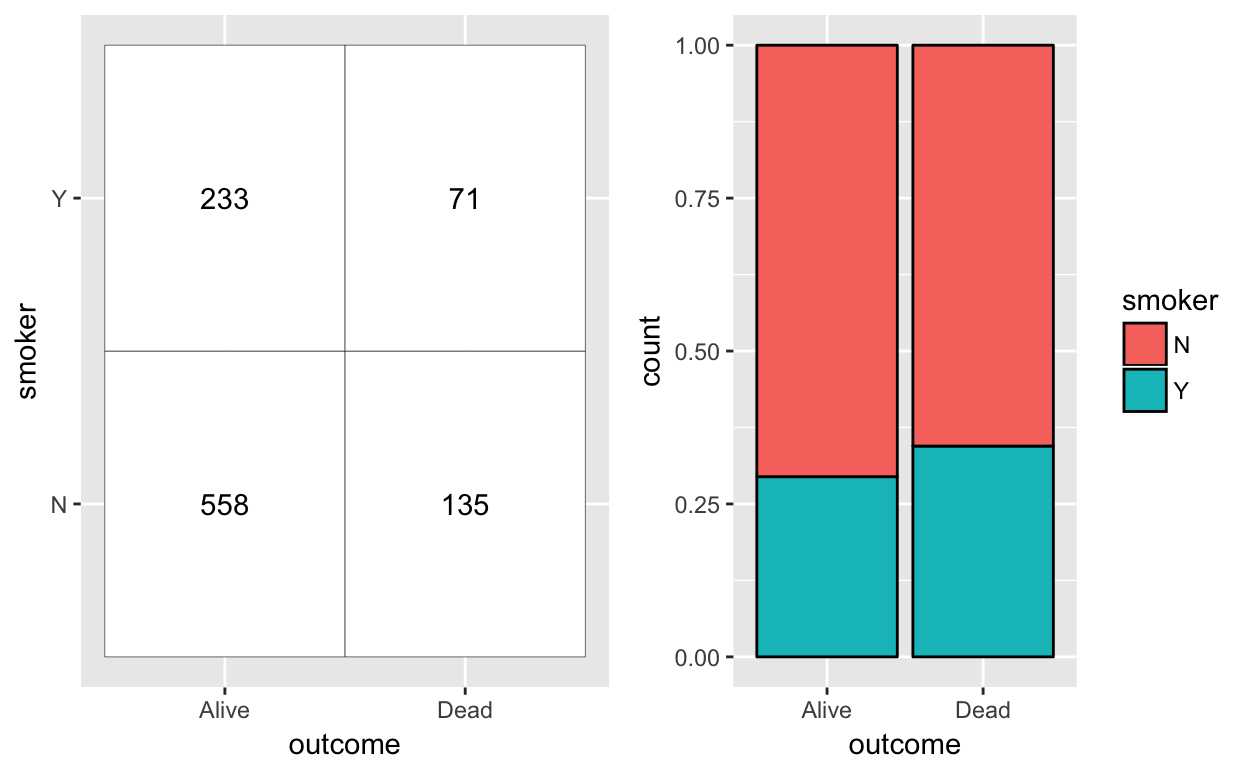
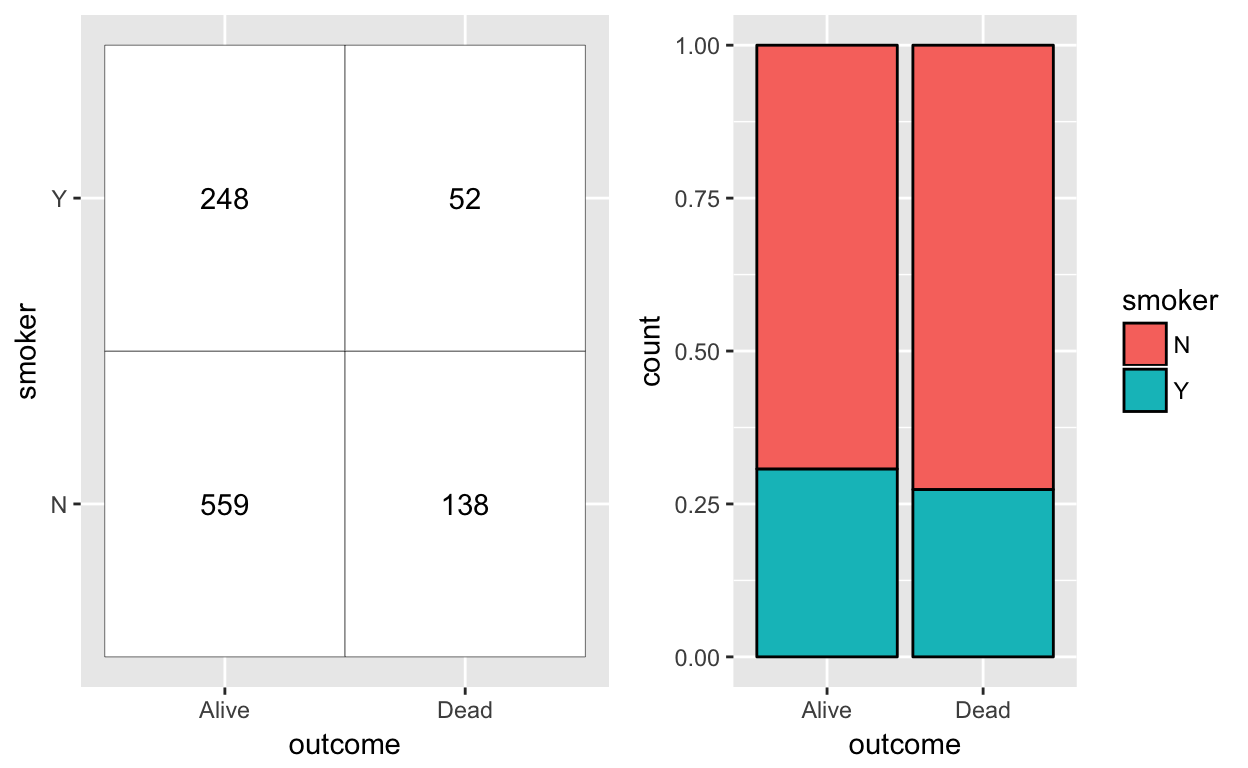
update

Changed region(s): [[0.5938, 0.5625, 0.8438, 0.6562], [0.3438, 0.25, 0.4062, 0.2812], [0.1562, 0.25, 0.1875, 0.2812]]

diff --git a/inst/tutorials/categoricalData/categoricalData.html b/inst/tutorials/categoricalData/categoricalData.html
@@ -107,14 +107,14 @@ if (window.hljs && document.readyState && document.readyState === "complete") {
 <p>If we know about whether someone smokes, do we know whether they are more likely to die?</p>
 <p>Compare it to whether someone wears green.</p>
 
-<div id="htmlwidget-add42c6ec792dd2dded8" style="width:100%;height:auto;", class = "quiz html-widget">
+<div id="htmlwidget-0748de10e5ade3e432a2" style="width:100%;height:auto;", class = "quiz html-widget">
 <div class="panel panel-default">
 <div class="panel-body quizArea">
 </div>
 </div>
 </div>
 
-<script type="application/json" data-for="htmlwidget-add42c6ec792dd2dded8">{"x":{"question":"If someone wears green are they more likely to die?","answers":[{"option":"Yes. Because Lucky the Leprechaun will be angry.","correct":false,"message":"Not correct."},{"option":"No. The two variables are not associated","correct":true,"message":"Yes, that&#39;s correct!"}],"label":"letter-a","skipStartButton":true,"perQuestionResponseAnswers":true,"perQuestionResponseMessaging":true,"preventUnanswered":true,"displayQuestionCount":false,"displayQuestionNumber":false,"disableRanking":true,"nextQuestionText":"","checkAnswerText":"Submit Answer","allowRetry":true,"randomSortAnswers":false,"json":{"info":{"name":"","main":""},"questions":[{"q":"If someone wears green are they more likely to die?","a":[{"option":"Yes. Because Lucky the Leprechaun will be angry.","correct":false,"message":"Not correct."},{"option":"No. The two variables are not associated","correct":true,"message":"Yes, that&#39;s correct!"}],"correct":"Correct!","incorrect":"Incorrect."}]}},"evals":[],"jsHooks":[]}</script>
+<script type="application/json" data-for="htmlwidget-0748de10e5ade3e432a2">{"x":{"question":"If someone wears green are they more likely to die?","answers":[{"option":"Yes. Because Lucky the Leprechaun will be angry.","correct":false,"message":"Not correct."},{"option":"No. The two variables are not associated","correct":true,"message":"Yes, that&#39;s correct!"}],"label":"letter-a","skipStartButton":true,"perQuestionResponseAnswers":true,"perQuestionResponseMessaging":true,"preventUnanswered":true,"displayQuestionCount":false,"displayQuestionNumber":false,"disableRanking":true,"nextQuestionText":"","checkAnswerText":"Submit Answer","allowRetry":true,"randomSortAnswers":false,"json":{"info":{"name":"","main":""},"questions":[{"q":"If someone wears green are they more likely to die?","a":[{"option":"Yes. Because Lucky the Leprechaun will be angry.","correct":false,"message":"Not correct."},{"option":"No. The two variables are not associated","correct":true,"message":"Yes, that&#39;s correct!"}],"correct":"Correct!","incorrect":"Incorrect."}]}},"evals":[],"jsHooks":[]}</script>
 </div>
 <div id="section-the-data-whickham" class="section level2">
 <h2>The Data (Whickham)</h2>
@@ -131,14 +131,14 @@ summary(Whickham)</code></pre>
 ##                        3rd Qu.:61.00  
 ##                        Max.   :84.00</code></pre>
 
-<div id="htmlwidget-a14ce394c0ea810d1dfd" style="width:100%;height:auto;", class = "quiz html-widget">
+<div id="htmlwidget-62d0f9262f0f01a10dd2" style="width:100%;height:auto;", class = "quiz html-widget">
 <div class="panel panel-default">
 <div class="panel-body quizArea">
 </div>
 </div>
 </div>
 
-<script type="application/json" data-for="htmlwidget-a14ce394c0ea810d1dfd">{"x":{"question":"What can we learn from this summary table?","answers":[{"option":"There are more alive people than dead people in the data.","correct":true,"message":"Correct. There are more alive people (945) than dead people (369) in this dataset."},{"option":"There are two variables","correct":false,"message":"Not quite. There&#39;s <code>outcome<\/code>, <code>smoker<\/code>, and <code>age<\/code>."},{"option":"You are either considered either a smoker or a non-smoker","correct":true,"message":"Yes, that&#39;s correct! This dataset doesn&#39;t account for how long you smoked."},{"option":"The age range of the patients includes minors.","correct":false,"message":"Incorrect. Look at the min value for age."},{"option":"The average age of the participant was around 47 years of age","correct":"Yes, the mean age was 46.92 years of age. Yes, you can see it as the mean value for the age","message":null}],"label":"summary","skipStartButton":true,"perQuestionResponseAnswers":true,"perQuestionResponseMessaging":true,"preventUnanswered":true,"displayQuestionCount":false,"displayQuestionNumber":false,"disableRanking":true,"nextQuestionText":"","checkAnswerText":"Submit Answer","allowRetry":true,"randomSortAnswers":false,"json":{"info":{"name":"","main":""},"questions":[{"q":"What can we learn from this summary table?","a":[{"option":"There are more alive people than dead people in the data.","correct":true,"message":"Correct. There are more alive people (945) than dead people (369) in this dataset."},{"option":"There are two variables","correct":false,"message":"Not quite. There&#39;s <code>outcome<\/code>, <code>smoker<\/code>, and <code>age<\/code>."},{"option":"You are either considered either a smoker or a non-smoker","correct":true,"message":"Yes, that&#39;s correct! This dataset doesn&#39;t account for how long you smoked."},{"option":"The age range of the patients includes minors.","correct":false,"message":"Incorrect. Look at the min value for age."},{"option":"The average age of the participant was around 47 years of age","correct":"Yes, the mean age was 46.92 years of age. Yes, you can see it as the mean value for the age","message":null}],"correct":"Correct!","incorrect":"Incorrect."}]}},"evals":[],"jsHooks":[]}</script>
+<script type="application/json" data-for="htmlwidget-62d0f9262f0f01a10dd2">{"x":{"question":"What can we learn from this summary table?","answers":[{"option":"There are more alive people than dead people in the data.","correct":true,"message":"Correct. There are more alive people (945) than dead people (369) in this dataset."},{"option":"There are two variables","correct":false,"message":"Not quite. There&#39;s <code>outcome<\/code>, <code>smoker<\/code>, and <code>age<\/code>."},{"option":"You are either considered either a smoker or a non-smoker","correct":true,"message":"Yes, that&#39;s correct! This dataset doesn&#39;t account for how long you smoked."},{"option":"The age range of the patients includes minors.","correct":false,"message":"Incorrect. Look at the min value for age."},{"option":"The average age of the participant was around 47 years of age","correct":"Yes, the mean age was 46.92 years of age. Yes, you can see it as the mean value for the age","message":null}],"label":"summary","skipStartButton":true,"perQuestionResponseAnswers":true,"perQuestionResponseMessaging":true,"preventUnanswered":true,"displayQuestionCount":false,"displayQuestionNumber":false,"disableRanking":true,"nextQuestionText":"","checkAnswerText":"Submit Answer","allowRetry":true,"randomSortAnswers":false,"json":{"info":{"name":"","main":""},"questions":[{"q":"What can we learn from this summary table?","a":[{"option":"There are more alive people than dead people in the data.","correct":true,"message":"Correct. There are more alive people (945) than dead people (369) in this dataset."},{"option":"There are two variables","correct":false,"message":"Not quite. There&#39;s <code>outcome<\/code>, <code>smoker<\/code>, and <code>age<\/code>."},{"option":"You are either considered either a smoker or a non-smoker","correct":true,"message":"Yes, that&#39;s correct! This dataset doesn&#39;t account for how long you smoked."},{"option":"The age range of the patients includes minors.","correct":false,"message":"Incorrect. Look at the min value for age."},{"option":"The average age of the participant was around 47 years of age","correct":"Yes, the mean age was 46.92 years of age. Yes, you can see it as the mean value for the age","message":null}],"correct":"Correct!","incorrect":"Incorrect."}]}},"evals":[],"jsHooks":[]}</script>
 <div id="section-what-does-the-data-actually-look-like" class="section level3">
 <h3>What does the data actually look like?</h3>
 <p>Here are the first 10 rows of the data table. Each row of the data corresponds to a patient.</p>
@@ -149,14 +149,14 @@ summary(Whickham)</code></pre>
   </script>
 </div>
 
-<div id="htmlwidget-d8c6dd5936d33be88841" style="width:100%;height:auto;", class = "quiz html-widget">
+<div id="htmlwidget-7773831603c9dd483bf9" style="width:100%;height:auto;", class = "quiz html-widget">
 <div class="panel panel-default">
 <div class="panel-body quizArea">
 </div>
 </div>
 </div>
 
-<script type="application/json" data-for="htmlwidget-d8c6dd5936d33be88841">{"x":{"question":"How many patients are Alive (outcome = &#39;Alive&#39;) and didn&#39;t smoke (smoker = &#39;No&#39;) from these first 10 rows?","answers":[{"option":"There are 4 patients.","correct":true,"message":"Correct. There are 4 patients who are alive and not smokers."},{"option":"There are 5 patients.","correct":false,"message":"Not quite. Go back and count."},{"option":"There are 6 patients.","correct":false,"message":"Not quite. Go back and count.."}],"label":"datatable","skipStartButton":true,"perQuestionResponseAnswers":true,"perQuestionResponseMessaging":true,"preventUnanswered":true,"displayQuestionCount":false,"displayQuestionNumber":false,"disableRanking":true,"nextQuestionText":"","checkAnswerText":"Submit Answer","allowRetry":true,"randomSortAnswers":false,"json":{"info":{"name":"","main":""},"questions":[{"q":"How many patients are Alive (outcome = &#39;Alive&#39;) and didn&#39;t smoke (smoker = &#39;No&#39;) from these first 10 rows?","a":[{"option":"There are 4 patients.","correct":true,"message":"Correct. There are 4 patients who are alive and not smokers."},{"option":"There are 5 patients.","correct":false,"message":"Not quite. Go back and count."},{"option":"There are 6 patients.","correct":false,"message":"Not quite. Go back and count.."}],"correct":"Correct!","incorrect":"Incorrect."}]}},"evals":[],"jsHooks":[]}</script>
+<script type="application/json" data-for="htmlwidget-7773831603c9dd483bf9">{"x":{"question":"How many patients are Alive (outcome = &#39;Alive&#39;) and didn&#39;t smoke (smoker = &#39;No&#39;) from these first 10 rows?","answers":[{"option":"There are 4 patients.","correct":true,"message":"Correct. There are 4 patients who are alive and not smokers."},{"option":"There are 5 patients.","correct":false,"message":"Not quite. Go back and count."},{"option":"There are 6 patients.","correct":false,"message":"Not quite. Go back and count.."}],"label":"datatable","skipStartButton":true,"perQuestionResponseAnswers":true,"perQuestionResponseMessaging":true,"preventUnanswered":true,"displayQuestionCount":false,"displayQuestionNumber":false,"disableRanking":true,"nextQuestionText":"","checkAnswerText":"Submit Answer","allowRetry":true,"randomSortAnswers":false,"json":{"info":{"name":"","main":""},"questions":[{"q":"How many patients are Alive (outcome = &#39;Alive&#39;) and didn&#39;t smoke (smoker = &#39;No&#39;) from these first 10 rows?","a":[{"option":"There are 4 patients.","correct":true,"message":"Correct. There are 4 patients who are alive and not smokers."},{"option":"There are 5 patients.","correct":false,"message":"Not quite. Go back and count."},{"option":"There are 6 patients.","correct":false,"message":"Not quite. Go back and count.."}],"correct":"Correct!","incorrect":"Incorrect."}]}},"evals":[],"jsHooks":[]}</script>
 </div>
 </div>
 <div id="section-lets-look-at-our-outcome" class="section level2">
@@ -197,14 +197,14 @@ summary(Whickham)</code></pre>
 <p>One case is that <code>smoking</code> would perfectly predict <code>outcome</code>. That is, if you smoke, you would die. Here we simulate fake data that shows this. The association would look like this:</p>
 <p><img src="categoricalData_files/figure-html/unnamed-chunk-8-1.png" width="624" /></p>
 
-<div id="htmlwidget-374f0482fc85beff47b7" style="width:100%;height:auto;", class = "quiz html-widget">
+<div id="htmlwidget-7628168099b11a79a64c" style="width:100%;height:auto;", class = "quiz html-widget">
 <div class="panel panel-default">
 <div class="panel-body quizArea">
 </div>
 </div>
 </div>
 
-<script type="application/json" data-for="htmlwidget-374f0482fc85beff47b7">{"x":{"question":"Which part of the stacked bar plot corresponds to the top left cell in the table?","answers":[{"option":"Right side, red part","correct":false,"message":"Not quite, look at what two conditions the top left cell belongs to."},{"option":"Left side, blue portion","correct":true,"message":"Yes, correct. This cell corresponds to people who are alive and who didn&#39;t smoke."},{"option":"Left side, red part","correct":false,"message":"Not quite, look at what two conditions the top left cell belongs to."},{"option":"Right side, blue part.","correct":false,"message":"Not quite, look at what two conditions the top left cell belongs to."}],"label":"datatable2","skipStartButton":true,"perQuestionResponseAnswers":true,"perQuestionResponseMessaging":true,"preventUnanswered":true,"displayQuestionCount":false,"displayQuestionNumber":false,"disableRanking":true,"nextQuestionText":"","checkAnswerText":"Submit Answer","allowRetry":true,"randomSortAnswers":false,"json":{"info":{"name":"","main":""},"questions":[{"q":"Which part of the stacked bar plot corresponds to the top left cell in the table?","a":[{"option":"Right side, red part","correct":false,"message":"Not quite, look at what two conditions the top left cell belongs to."},{"option":"Left side, blue portion","correct":true,"message":"Yes, correct. This cell corresponds to people who are alive and who didn&#39;t smoke."},{"option":"Left side, red part","correct":false,"message":"Not quite, look at what two conditions the top left cell belongs to."},{"option":"Right side, blue part.","correct":false,"message":"Not quite, look at what two conditions the top left cell belongs to."}],"correct":"Correct!","incorrect":"Incorrect."}]}},"evals":[],"jsHooks":[]}</script>
+<script type="application/json" data-for="htmlwidget-7628168099b11a79a64c">{"x":{"question":"Which part of the stacked bar plot corresponds to the top left cell in the table?","answers":[{"option":"Right side, red part","correct":false,"message":"Not quite, look at what two conditions the top left cell belongs to."},{"option":"Left side, blue portion","correct":true,"message":"Yes, correct. This cell corresponds to people who are alive and who didn&#39;t smoke."},{"option":"Left side, red part","correct":false,"message":"Not quite, look at what two conditions the top left cell belongs to."},{"option":"Right side, blue part.","correct":false,"message":"Not quite, look at what two conditions the top left cell belongs to."}],"label":"datatable2","skipStartButton":true,"perQuestionResponseAnswers":true,"perQuestionResponseMessaging":true,"preventUnanswered":true,"displayQuestionCount":false,"displayQuestionNumber":false,"disableRanking":true,"nextQuestionText":"","checkAnswerText":"Submit Answer","allowRetry":true,"randomSortAnswers":false,"json":{"info":{"name":"","main":""},"questions":[{"q":"Which part of the stacked bar plot corresponds to the top left cell in the table?","a":[{"option":"Right side, red part","correct":false,"message":"Not quite, look at what two conditions the top left cell belongs to."},{"option":"Left side, blue portion","correct":true,"message":"Yes, correct. This cell corresponds to people who are alive and who didn&#39;t smoke."},{"option":"Left side, red part","correct":false,"message":"Not quite, look at what two conditions the top left cell belongs to."},{"option":"Right side, blue part.","correct":false,"message":"Not quite, look at what two conditions the top left cell belongs to."}],"correct":"Correct!","incorrect":"Incorrect."}]}},"evals":[],"jsHooks":[]}</script>
 </div>
 <div id="section-what-if-there-is-no-association-between-smoking-and-death" class="section level3">
 <h3>What if there is no association between smoking and death?</h3>
@@ -220,14 +220,14 @@ summary(Whickham)</code></pre>
 <p><img src="categoricalData_files/figure-html/unnamed-chunk-11-1.png" width="624" /></p>
 <p><img src="categoricalData_files/figure-html/unnamed-chunk-12-1.png" width="624" /></p>
 
-<div id="htmlwidget-4b22847e5990052d20ca" style="width:100%;height:auto;", class = "quiz html-widget">
+<div id="htmlwidget-6962a996fd8e83f19793" style="width:100%;height:auto;", class = "quiz html-widget">
 <div class="panel panel-default">
 <div class="panel-body quizArea">
 </div>
 </div>
 </div>
 
-<script type="application/json" data-for="htmlwidget-4b22847e5990052d20ca">{"x":{"question":"Based on this plot, if you smoke will you be more likely to be alive or dead?","answers":[{"option":"Dead, because that&#39;s what makes common sense.","correct":false,"message":"Not correct."},{"option":"Alive, because that&#39;s what the data tells us","correct":true,"message":"Yes, that&#39;s correct!"}],"label":"letter-c","skipStartButton":true,"perQuestionResponseAnswers":true,"perQuestionResponseMessaging":true,"preventUnanswered":true,"displayQuestionCount":false,"displayQuestionNumber":false,"disableRanking":true,"nextQuestionText":"","checkAnswerText":"Submit Answer","allowRetry":false,"randomSortAnswers":false,"json":{"info":{"name":"","main":""},"questions":[{"q":"Based on this plot, if you smoke will you be more likely to be alive or dead?","a":[{"option":"Dead, because that&#39;s what makes common sense.","correct":false,"message":"Not correct."},{"option":"Alive, because that&#39;s what the data tells us","correct":true,"message":"Yes, that&#39;s correct!"}],"correct":"Correct!","incorrect":"Incorrect."}]}},"evals":[],"jsHooks":[]}</script>
+<script type="application/json" data-for="htmlwidget-6962a996fd8e83f19793">{"x":{"question":"Based on this plot, if you smoke will you be more likely to be alive or dead?","answers":[{"option":"Dead, because that&#39;s what makes common sense.","correct":false,"message":"Not correct."},{"option":"Alive, because that&#39;s what the data tells us","correct":true,"message":"Yes, that&#39;s correct!"}],"label":"letter-c","skipStartButton":true,"perQuestionResponseAnswers":true,"perQuestionResponseMessaging":true,"preventUnanswered":true,"displayQuestionCount":false,"displayQuestionNumber":false,"disableRanking":true,"nextQuestionText":"","checkAnswerText":"Submit Answer","allowRetry":false,"randomSortAnswers":false,"json":{"info":{"name":"","main":""},"questions":[{"q":"Based on this plot, if you smoke will you be more likely to be alive or dead?","a":[{"option":"Dead, because that&#39;s what makes common sense.","correct":false,"message":"Not correct."},{"option":"Alive, because that&#39;s what the data tells us","correct":true,"message":"Yes, that&#39;s correct!"}],"correct":"Correct!","incorrect":"Incorrect."}]}},"evals":[],"jsHooks":[]}</script>
 </div>
 <div id="section-the-effect-of-age-on-the-data" class="section level2">
 <h2>The effect of Age on the Data</h2>
@@ -238,14 +238,14 @@ summary(Whickham)</code></pre>
 <input class="js-range-slider" id="slidy" data-type="double" data-min="19" data-max="83" data-from="23" data-to="83" data-step="5" data-grid="true" data-grid-num="6.4" data-grid-snap="false" data-prettify-separator="," data-prettify-enabled="true" data-keyboard="true" data-keyboard-step="7.8125" data-drag-interval="true" data-data-type="number"/>
 </div><div id="distPlot" class="shiny-plot-output" style="width: 100% ; height: 400px"></div></p>
 
-<div id="htmlwidget-fef35afd74beb64debf8" style="width:100%;height:auto;", class = "quiz html-widget">
+<div id="htmlwidget-3225d8988554251894e8" style="width:100%;height:auto;", class = "quiz html-widget">
 <div class="panel panel-default">
 <div class="panel-body quizArea">
 </div>
 </div>
 </div>
 
-<script type="application/json" data-for="htmlwidget-fef35afd74beb64debf8">{"x":{"question":"What do you notice about the number of deaths as you increase the age of the subgroup?","answers":[{"option":"The number of deaths decreases, which means that as you get older, you are less likely to die.","correct":false,"message":"Not correct."},{"option":"The number of deaths increases, which means that as you get older, you are more likely to die.","correct":true,"message":"Yes, that&#39;s correct!"}],"label":"letter-d","skipStartButton":true,"perQuestionResponseAnswers":true,"perQuestionResponseMessaging":true,"preventUnanswered":true,"displayQuestionCount":false,"displayQuestionNumber":false,"disableRanking":true,"nextQuestionText":"","checkAnswerText":"Submit Answer","allowRetry":false,"randomSortAnswers":false,"json":{"info":{"name":"","main":""},"questions":[{"q":"What do you notice about the number of deaths as you increase the age of the subgroup?","a":[{"option":"The number of deaths decreases, which means that as you get older, you are less likely to die.","correct":false,"message":"Not correct."},{"option":"The number of deaths increases, which means that as you get older, you are more likely to die.","correct":true,"message":"Yes, that&#39;s correct!"}],"correct":"Correct!","incorrect":"Incorrect."}]}},"evals":[],"jsHooks":[]}</script>
+<script type="application/json" data-for="htmlwidget-3225d8988554251894e8">{"x":{"question":"What do you notice about the number of deaths as you increase the age of the subgroup?","answers":[{"option":"The number of deaths decreases, which means that as you get older, you are less likely to die.","correct":false,"message":"Not correct."},{"option":"The number of deaths increases, which means that as you get older, you are more likely to die.","correct":true,"message":"Yes, that&#39;s correct!"}],"label":"letter-d","skipStartButton":true,"perQuestionResponseAnswers":true,"perQuestionResponseMessaging":true,"preventUnanswered":true,"displayQuestionCount":false,"displayQuestionNumber":false,"disableRanking":true,"nextQuestionText":"","checkAnswerText":"Submit Answer","allowRetry":false,"randomSortAnswers":false,"json":{"info":{"name":"","main":""},"questions":[{"q":"What do you notice about the number of deaths as you increase the age of the subgroup?","a":[{"option":"The number of deaths decreases, which means that as you get older, you are less likely to die.","correct":false,"message":"Not correct."},{"option":"The number of deaths increases, which means that as you get older, you are more likely to die.","correct":true,"message":"Yes, that&#39;s correct!"}],"correct":"Correct!","incorrect":"Incorrect."}]}},"evals":[],"jsHooks":[]}</script>
 </div>
 <div id="section-not-as-easy-as-we-thought" class="section level2">
 <h2>Not as easy as we thought!</h2>
@@ -256,14 +256,14 @@ summary(Whickham)</code></pre>
 <input class="js-range-slider" id="slidy2" data-type="double" data-min="19" data-max="83" data-from="18" data-to="83" data-step="2" data-grid="true" data-grid-num="8" data-grid-snap="false" data-prettify-separator="," data-prettify-enabled="true" data-keyboard="true" data-keyboard-step="3.125" data-drag-interval="true" data-data-type="number"/>
 </div><div id="distPlot2" class="shiny-plot-output" style="width: 100% ; height: 400px"></div></p>
 
-<div id="htmlwidget-3d3b0dcafae7103b5f19" style="width:100%;height:auto;", class = "quiz html-widget">
+<div id="htmlwidget-f03e6b1038ce4ea73b88" style="width:100%;height:auto;", class = "quiz html-widget">
 <div class="panel panel-default">
 <div class="panel-body quizArea">
 </div>
 </div>
 </div>
 
-<script type="application/json" data-for="htmlwidget-3d3b0dcafae7103b5f19">{"x":{"question":"For patients who are under 60, is smoking associated with death?","answers":[{"option":"Yes, the proportion of smokers who die is greater than the proportion of non-smokers who die for those patients younger than 60 years.","correct":true,"message":"Yes, correct."},{"option":"No, the proportion of smokers who die is smaller than the proportion of non-smokers who die for those patients younger than 60 years.","correct":false,"message":"Go back and look at the proportions."}],"label":"letter-e","skipStartButton":true,"perQuestionResponseAnswers":true,"perQuestionResponseMessaging":true,"preventUnanswered":true,"displayQuestionCount":false,"displayQuestionNumber":false,"disableRanking":true,"nextQuestionText":"","checkAnswerText":"Submit Answer","allowRetry":false,"randomSortAnswers":false,"json":{"info":{"name":"","main":""},"questions":[{"q":"For patients who are under 60, is smoking associated with death?","a":[{"option":"Yes, the proportion of smokers who die is greater than the proportion of non-smokers who die for those patients younger than 60 years.","correct":true,"message":"Yes, correct."},{"option":"No, the proportion of smokers who die is smaller than the proportion of non-smokers who die for those patients younger than 60 years.","correct":false,"message":"Go back and look at the proportions."}],"correct":"Correct!","incorrect":"Incorrect."}]}},"evals":[],"jsHooks":[]}</script>
+<script type="application/json" data-for="htmlwidget-f03e6b1038ce4ea73b88">{"x":{"question":"For patients who are under 60, is smoking associated with death?","answers":[{"option":"Yes, the proportion of smokers who die is greater than the proportion of non-smokers who die for those patients younger than 60 years.","correct":true,"message":"Yes, correct."},{"option":"No, the proportion of smokers who die is smaller than the proportion of non-smokers who die for those patients younger than 60 years.","correct":false,"message":"Go back and look at the proportions."}],"label":"letter-e","skipStartButton":true,"perQuestionResponseAnswers":true,"perQuestionResponseMessaging":true,"preventUnanswered":true,"displayQuestionCount":false,"displayQuestionNumber":false,"disableRanking":true,"nextQuestionText":"","checkAnswerText":"Submit Answer","allowRetry":false,"randomSortAnswers":false,"json":{"info":{"name":"","main":""},"questions":[{"q":"For patients who are under 60, is smoking associated with death?","a":[{"option":"Yes, the proportion of smokers who die is greater than the proportion of non-smokers who die for those patients younger than 60 years.","correct":true,"message":"Yes, correct."},{"option":"No, the proportion of smokers who die is smaller than the proportion of non-smokers who die for those patients younger than 60 years.","correct":false,"message":"Go back and look at the proportions."}],"correct":"Correct!","incorrect":"Incorrect."}]}},"evals":[],"jsHooks":[]}</script>
 </div>
 <div id="section-chi-squared-test" class="section level2">
 <h2>Chi-Squared Test</h2>
@@ -284,20 +284,28 @@ summary(Whickham)</code></pre>
 <p>We calculate these expected values by looking at the column and row totals for each cell.</p>
 <pre class="r"><code>cohort &lt;- Whickham %&gt;% 
   ##here is our filtering criteria
-  filter(age &lt; 40) %&gt;%
+  filter(age &lt; 60) %&gt;%
   select(smoker, outcome) %&gt;% 
   table
+cohort</code></pre>
+<pre><code>##       outcome
+## smoker Alive Dead
+##    No    434   44
+##    Yes   402   64</code></pre>
+<pre class="r"><code>outcome_count &lt;- colSums(cohort)
+outcome_count</code></pre>
+<pre><code>## Alive  Dead 
+##   836   108</code></pre>
+<pre class="r"><code>smoking_count &lt;- rowSums(cohort)
+smoking_count</code></pre>
+<pre><code>##  No Yes 
+## 478 466</code></pre>
+<pre class="r"><code>total &lt;- sum(smoking_count)
 
-outcome_count &lt;- colSums(cohort)
-
-smoking_count &lt;- rowSums(cohort)
-
-total &lt;- sum(smoking_count)
-
-expected_value = (outcome_count[1]*smoking_count) / total
+expected_value = (outcome_count[1]*smoking_count[1]) / total
 expected_value</code></pre>
-<pre><code>##       No      Yes 
-## 279.6419 228.3581</code></pre>
+<pre><code>##    Alive 
+## 423.3136</code></pre>
 </div>
 <div id="section-what-does-chi-squared-represent" class="section level3">
 <h3>What does Chi-squared represent?</h3>
@@ -328,14 +336,14 @@ chi</code></pre>
 <script type="application/json" data-opts-chunk="1">{"fig.width":6.5,"fig.height":4,"fig.retina":2,"fig.align":"default","fig.keep":"high","fig.show":"asis","out.width":624,"warning":true,"error":false,"message":true,"exercise.df_print":"paged","exercise.checker":"NULL"}</script>
 </div>
 
-<div id="htmlwidget-8fea4ea1a56d7659300a" style="width:100%;height:auto;", class = "quiz html-widget">
+<div id="htmlwidget-0a88758205eebebe95ec" style="width:100%;height:auto;", class = "quiz html-widget">
 <div class="panel panel-default">
 <div class="panel-body quizArea">
 </div>
 </div>
 </div>
 
-<script type="application/json" data-for="htmlwidget-8fea4ea1a56d7659300a">{"x":{"question":"How did the top left cell change for the chi-matrix when you changed the filtering criteria?","answers":[{"option":"It got larger, meaning there is more of a deviation from the expected value.","correct":true,"message":"Yes, correct."},{"option":"It got smaller, ","correct":false,"message":null}],"label":"expected-val","skipStartButton":true,"perQuestionResponseAnswers":true,"perQuestionResponseMessaging":true,"preventUnanswered":true,"displayQuestionCount":false,"displayQuestionNumber":false,"disableRanking":true,"nextQuestionText":"","checkAnswerText":"Submit Answer","allowRetry":false,"randomSortAnswers":false,"json":{"info":{"name":"","main":""},"questions":[{"q":"How did the top left cell change for the chi-matrix when you changed the filtering criteria?","a":[{"option":"It got larger, meaning there is more of a deviation from the expected value.","correct":true,"message":"Yes, correct."},{"option":"It got smaller, ","correct":false,"message":null}],"correct":"Correct!","incorrect":"Incorrect."}]}},"evals":[],"jsHooks":[]}</script>
+<script type="application/json" data-for="htmlwidget-0a88758205eebebe95ec">{"x":{"question":"How did the top left cell change for the chi-matrix when you changed the filtering criteria?","answers":[{"option":"It got larger, meaning there is more of a deviation from the expected value.","correct":true,"message":"Yes, correct."},{"option":"It got smaller, meaning there is less of a deviation from the expected value. ","correct":false,"message":null}],"label":"expected-val","skipStartButton":true,"perQuestionResponseAnswers":true,"perQuestionResponseMessaging":true,"preventUnanswered":true,"displayQuestionCount":false,"displayQuestionNumber":false,"disableRanking":true,"nextQuestionText":"","checkAnswerText":"Submit Answer","allowRetry":false,"randomSortAnswers":false,"json":{"info":{"name":"","main":""},"questions":[{"q":"How did the top left cell change for the chi-matrix when you changed the filtering criteria?","a":[{"option":"It got larger, meaning there is more of a deviation from the expected value.","correct":true,"message":"Yes, correct."},{"option":"It got smaller, meaning there is less of a deviation from the expected value. ","correct":false,"message":null}],"correct":"Correct!","incorrect":"Incorrect."}]}},"evals":[],"jsHooks":[]}</script>
 </div>
 <div id="section-our-null-hypothesis-and-alternative-hypothesis" class="section level3">
 <h3>Our null hypothesis and alternative hypothesis</h3>
@@ -379,14 +387,14 @@ pvalue = length(chiveq[chiveq &gt; chistat]) / length(chiveq)
 pvalue</code></pre>
 <pre><code>## [1] 0.022</code></pre>
 
-<div id="htmlwidget-219400cb3b96c1aee57f" style="width:100%;height:auto;", class = "quiz html-widget">
+<div id="htmlwidget-09d448449caab0d81c1e" style="width:100%;height:auto;", class = "quiz html-widget">
 <div class="panel panel-default">
 <div class="panel-body quizArea">
 </div>
 </div>
 </div>
 
-<script type="application/json" data-for="htmlwidget-219400cb3b96c1aee57f">{"x":{"question":"So for our alpha of 0.05, do we call our statistic significant?","answers":[{"option":"No, we do not reject the null hypothesis that there is no association between smoking and outcome","correct":false,"message":"Compare our p-value to our alpha."},{"option":"Yes, we reject the null hypothesis that there is no association and conclude that there is an association","correct":true,"message":"Go back and look at the proportions."}],"label":"letter-z","skipStartButton":true,"perQuestionResponseAnswers":true,"perQuestionResponseMessaging":true,"preventUnanswered":true,"displayQuestionCount":false,"displayQuestionNumber":false,"disableRanking":true,"nextQuestionText":"","checkAnswerText":"Submit Answer","allowRetry":false,"randomSortAnswers":false,"json":{"info":{"name":"","main":""},"questions":[{"q":"So for our alpha of 0.05, do we call our statistic significant?","a":[{"option":"No, we do not reject the null hypothesis that there is no association between smoking and outcome","correct":false,"message":"Compare our p-value to our alpha."},{"option":"Yes, we reject the null hypothesis that there is no association and conclude that there is an association","correct":true,"message":"Go back and look at the proportions."}],"correct":"Correct!","incorrect":"Incorrect."}]}},"evals":[],"jsHooks":[]}</script>
+<script type="application/json" data-for="htmlwidget-09d448449caab0d81c1e">{"x":{"question":"So for our alpha of 0.05, do we call our statistic significant?","answers":[{"option":"No, we do not reject the null hypothesis that there is no association between smoking and outcome","correct":false,"message":"Compare our p-value to our alpha."},{"option":"Yes, we reject the null hypothesis that there is no association and conclude that there is an association","correct":true,"message":"Go back and look at the proportions."}],"label":"letter-z","skipStartButton":true,"perQuestionResponseAnswers":true,"perQuestionResponseMessaging":true,"preventUnanswered":true,"displayQuestionCount":false,"displayQuestionNumber":false,"disableRanking":true,"nextQuestionText":"","checkAnswerText":"Submit Answer","allowRetry":false,"randomSortAnswers":false,"json":{"info":{"name":"","main":""},"questions":[{"q":"So for our alpha of 0.05, do we call our statistic significant?","a":[{"option":"No, we do not reject the null hypothesis that there is no association between smoking and outcome","correct":false,"message":"Compare our p-value to our alpha."},{"option":"Yes, we reject the null hypothesis that there is no association and conclude that there is an association","correct":true,"message":"Go back and look at the proportions."}],"correct":"Correct!","incorrect":"Incorrect."}]}},"evals":[],"jsHooks":[]}</script>
 </div>
 <div id="section-the-chi-square-distribution" class="section level3">
 <h3>The chi-square distribution</h3>
@@ -399,14 +407,14 @@ pvalue</code></pre>
 <div id="section-write-your-results-up" class="section level3">
 <h3>Write your results up</h3>
 
-<div id="htmlwidget-d1ecfa01f3fa4bc3df48" style="width:100%;height:auto;", class = "quiz html-widget">
+<div id="htmlwidget-1551f213d522f53ec5c9" style="width:100%;height:auto;", class = "quiz html-widget">
 <div class="panel panel-default">
 <div class="panel-body quizArea">
 </div>
 </div>
 </div>
 
-<script type="application/json" data-for="htmlwidget-d1ecfa01f3fa4bc3df48">{"x":{"question":"Write up your results by selecting from the following statements:","answers":[{"option":"For our cohort of under 60 women","correct":true,"message":null},{"option":"we found an association between wearing colors and death","correct":false,"message":"Go back and look at the proportions."},{"option":"we found an association between smoking and death","correct":true,"message":null},{"option":"this association was significant with a p-value of 0.01","correct":true,"message":null}],"label":"letter-r","skipStartButton":true,"perQuestionResponseAnswers":true,"perQuestionResponseMessaging":true,"preventUnanswered":true,"displayQuestionCount":false,"displayQuestionNumber":false,"disableRanking":true,"nextQuestionText":"","checkAnswerText":"Submit Answer","allowRetry":false,"randomSortAnswers":false,"json":{"info":{"name":"","main":""},"questions":[{"q":"Write up your results by selecting from the following statements:","a":[{"option":"For our cohort of under 60 women","correct":true,"message":null},{"option":"we found an association between wearing colors and death","correct":false,"message":"Go back and look at the proportions."},{"option":"we found an association between smoking and death","correct":true,"message":null},{"option":"this association was significant with a p-value of 0.01","correct":true,"message":null}],"correct":"Correct!","incorrect":"Incorrect."}]}},"evals":[],"jsHooks":[]}</script>
+<script type="application/json" data-for="htmlwidget-1551f213d522f53ec5c9">{"x":{"question":"Write up your results by selecting from the following statements:","answers":[{"option":"For our cohort of under 60 women","correct":true,"message":null},{"option":"we found an association between wearing colors and death","correct":false,"message":"Go back and look at the proportions."},{"option":"we found an association between smoking and death","correct":true,"message":null},{"option":"this association was significant with a p-value of 0.01","correct":true,"message":null}],"label":"letter-r","skipStartButton":true,"perQuestionResponseAnswers":true,"perQuestionResponseMessaging":true,"preventUnanswered":true,"displayQuestionCount":false,"displayQuestionNumber":false,"disableRanking":true,"nextQuestionText":"","checkAnswerText":"Submit Answer","allowRetry":false,"randomSortAnswers":false,"json":{"info":{"name":"","main":""},"questions":[{"q":"Write up your results by selecting from the following statements:","a":[{"option":"For our cohort of under 60 women","correct":true,"message":null},{"option":"we found an association between wearing colors and death","correct":false,"message":"Go back and look at the proportions."},{"option":"we found an association between smoking and death","correct":true,"message":null},{"option":"this association was significant with a p-value of 0.01","correct":true,"message":null}],"correct":"Correct!","incorrect":"Incorrect."}]}},"evals":[],"jsHooks":[]}</script>
 </div>
 <div id="section-the-stability-of-our-test-statistic-with-small-n" class="section level3">
 <h3>The stability of our test statistic with small n</h3>
